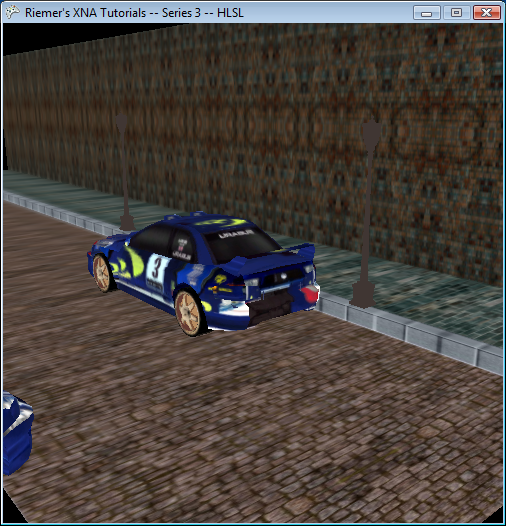
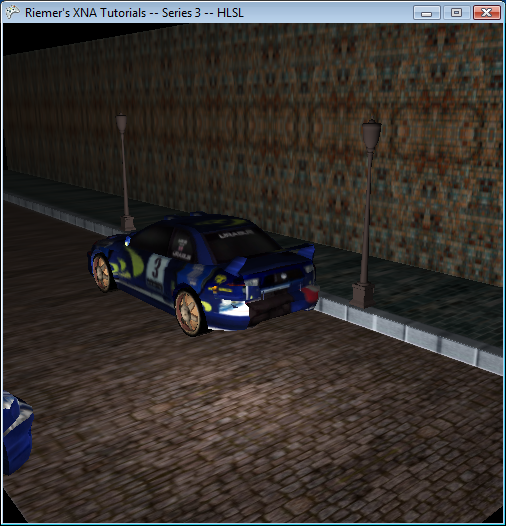
Added light to the scene (step 11). + Added ambient and point light. + Power and position of the light can be adjusted. + Updated shader to consider normals to calculate the light. + Updated screenshot.

diff --git a/XNA_HLSL/Game1.cs b/XNA_HLSL/Game1.cs
@@ -54,6 +54,10 @@ namespace XNAseries3
         Model carModel;
         Texture2D[] carTextures;
 
+        Vector3 lightPos;
+        float lightPower;
+        float ambientPower;
+
         public Game1()
         {
             graphics = new GraphicsDeviceManager(this);
@@ -148,7 +152,16 @@ namespace XNAseries3
             if (keyState.IsKeyDown(Keys.Escape))
                 this.Exit();
 
+            UpdateLightData();
+
             base.Update(gameTime);
+        }
+
+        private void UpdateLightData()
+        {
+            lightPos = new Vector3(-10, 4, -2);
+            lightPower = 1.0f;
+            ambientPower = 0.2f;
         }
 
         protected override void Draw(GameTime gameTime)
@@ -157,6 +170,10 @@ namespace XNAseries3
 
             effect.CurrentTechnique = effect.Techniques["Simplest"];
             effect.Parameters["xWorldViewProjection"].SetValue(viewMatrix * projectionMatrix);
+            effect.Parameters["xWorld"].SetValue(Matrix.Identity);
+            effect.Parameters["xLightPos"].SetValue(lightPos);
+            effect.Parameters["xLightPower"].SetValue(lightPower);
+            effect.Parameters["xAmbient"].SetValue(ambientPower);
             effect.Parameters["xTexture"].SetValue(streetTexture);
             effect.Begin();
             foreach (EffectPass pass in effect.CurrentTechnique.Passes)
@@ -196,6 +213,10 @@ namespace XNAseries3
                     Matrix worldMatrix = modelTransforms[mesh.ParentBone.Index] * wMatrix;
                     currentEffect.CurrentTechnique = currentEffect.Techniques[technique];
                     currentEffect.Parameters["xWorldViewProjection"].SetValue(worldMatrix * viewMatrix * projectionMatrix);
+                    currentEffect.Parameters["xWorld"].SetValue(worldMatrix);
+                    currentEffect.Parameters["xLightPos"].SetValue(lightPos);
+                    currentEffect.Parameters["xLightPower"].SetValue(lightPower);
+                    currentEffect.Parameters["xAmbient"].SetValue(ambientPower);
                     currentEffect.Parameters["xTexture"].SetValue(textures[i++]);
                     currentEffect.Parameters["xSolidBrown"].SetValue(solidBrown);
                 }
